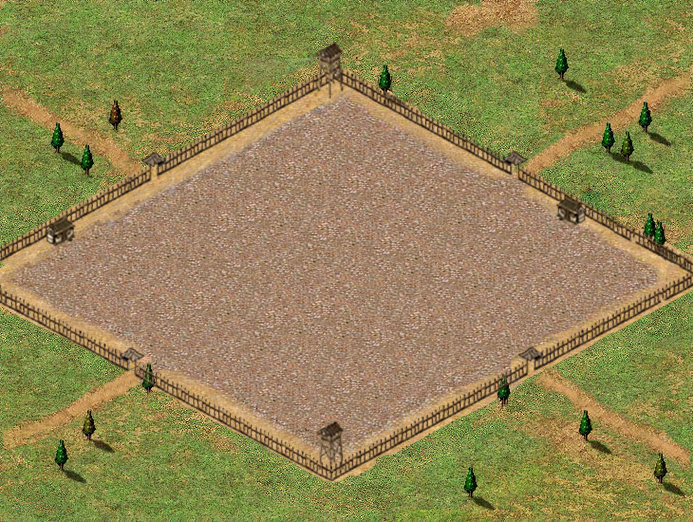
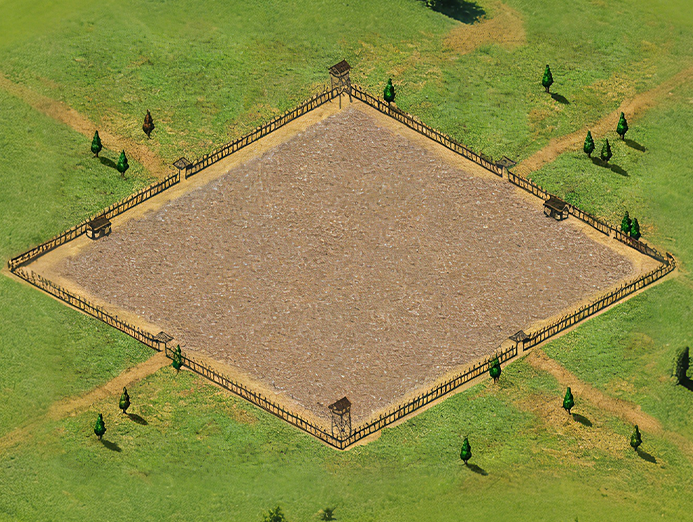
完美解决放置问题

diff --git a/client/js/render_engine.js b/client/js/render_engine.js
@@ -1,4 +1,4 @@
-import { TILE_SIZE, CAMERA_CONFIG, LIGHT_CONFIG, GRID_CONFIG } from './config.js';
+import { TILE_SIZE, CAMERA_CONFIG, LIGHT_CONFIG, GRID_CONFIG, CITY_BOUNDARY } from './config.js';
 
 export const RenderEngine = {
     scene: null,
@@ -60,7 +60,7 @@ export const RenderEngine = {
 
         // Grid Helper
         if (GRID_CONFIG.visible) {
-            this.gridHelper = new THREE.GridHelper(GRID_CONFIG.size, GRID_CONFIG.divisions);
+            this.gridHelper = this.createCustomGrid();
             this.scene.add(this.gridHelper);
         }
 
@@ -99,31 +99,12 @@ export const RenderEngine = {
     animate: function() {
         requestAnimationFrame(() => this.animate());
         
-        // Infinite Grid Logic
+        // Infinite Grid Logic - Disabled for fixed boundary grid
+        /*
         if (this.gridHelper && this.camera && this.renderer) {
-            // Re-use getWorldPosition logic but for center of screen (0,0 NDC)
-            // Or just create a raycaster here
-            
-            const raycaster = new THREE.Raycaster();
-            // Normalized Device Coords for center is (0,0)
-            raycaster.setFromCamera(new THREE.Vector2(0, 0), this.camera);
-            
-            const plane = new THREE.Plane(new THREE.Vector3(0, 1, 0), 0);
-            const target = new THREE.Vector3();
-            
-            raycaster.ray.intersectPlane(plane, target);
-            
-            if (target) {
-                const cellSize = GRID_CONFIG.size / GRID_CONFIG.divisions;
-                
-                // Snap to nearest cell multiple
-                const snapX = Math.floor(target.x / cellSize) * cellSize;
-                const snapZ = Math.floor(target.z / cellSize) * cellSize;
-                
-                this.gridHelper.position.x = snapX;
-                this.gridHelper.position.z = snapZ;
-            }
+             // ... Logic removed to keep grid fixed to world coordinates for boundary visualization ...
         }
+        */
 
         this.renderer.render(this.scene, this.camera);
     },
@@ -312,10 +293,79 @@ export const RenderEngine = {
         this.camera.translateY(moveY);
     },
 
+    // 创建自定义网格 (红色表示越界)
+    createCustomGrid: function() {
+        const group = new THREE.Group();
+        
+        const size = GRID_CONFIG.size;
+        const step = TILE_SIZE;
+        const halfSize = size / 2;
+        
+        const colorInside = 0x888888; // Grey
+        const colorOutside = 0xff0000; // Red
+        
+        const matInside = new THREE.LineBasicMaterial({ color: colorInside });
+        const matOutside = new THREE.LineBasicMaterial({ color: colorOutside });
+        
+        // Helper to add line
+        const addLine = (x1, y1, z1, x2, y2, z2, isOutside) => {
+            const points = [];
+            points.push(new THREE.Vector3(x1, y1, z1));
+            points.push(new THREE.Vector3(x2, y2, z2));
+            const geometry = new THREE.BufferGeometry().setFromPoints(points);
+            const line = new THREE.Line(geometry, isOutside ? matOutside : matInside);
+            group.add(line);
+        };
+
+        const { minX, maxX, minY, maxY } = CITY_BOUNDARY;
+
+        // Vertical lines (along Z)
+        for (let x = -halfSize; x <= halfSize; x += step) {
+             // If x is outside boundary X range, whole line is red
+             if (x < minX || x > maxX) {
+                 addLine(x, 0, -halfSize, x, 0, halfSize, true);
+             } else {
+                 // Split into 3 segments
+                 // 1. -halfSize to minY (Red)
+                 if (-halfSize < minY) {
+                     addLine(x, 0, -halfSize, x, 0, minY, true);
+                 }
+                 // 2. minY to maxY (Grey/Inside)
+                 addLine(x, 0, minY, x, 0, maxY, false);
+                 // 3. maxY to halfSize (Red)
+                 if (maxY < halfSize) {
+                     addLine(x, 0, maxY, x, 0, halfSize, true);
+                 }
+             }
+        }
+
+        // Horizontal lines (along X)
+        for (let z = -halfSize; z <= halfSize; z += step) {
+            // If z is outside boundary Y range, whole line is red
+            if (z < minY || z > maxY) {
+                addLine(-halfSize, 0, z, halfSize, 0, z, true);
+            } else {
+                // Split into 3 segments
+                // 1. -halfSize to minX (Red)
+                if (-halfSize < minX) {
+                     addLine(-halfSize, 0, z, minX, 0, z, true);
+                }
+                // 2. minX to maxX (Grey)
+                addLine(minX, 0, z, maxX, 0, z, false);
+                // 3. maxX to halfSize (Red)
+                if (maxX < halfSize) {
+                    addLine(maxX, 0, z, halfSize, 0, z, true);
+                }
+            }
+        }
+        
+        return group;
+    },
+
     // 虚线网格设置为是否可见 拖拽和建筑的时候可见。
     setGridVisibility: function(visible) {
         if (!this.gridHelper) {
-             this.gridHelper = new THREE.GridHelper(GRID_CONFIG.size, GRID_CONFIG.divisions);
+             this.gridHelper = this.createCustomGrid();
              this.scene.add(this.gridHelper);
         }
         this.gridHelper.visible = visible;

diff --git a/client/js/input.js b/client/js/input.js
@@ -3,7 +3,7 @@ import { Game } from './state.js';
 import { sendRequest } from './api.js';
 import { log } from './utils.js';
 import { renderCity, renderMap, switchView, createGhost, updateGhost, removeGhost } from './render.js';
-import { ZOOM_MIN, ZOOM_MAX, ZOOM_STEP } from './config.js';
+import { ZOOM_MIN, ZOOM_MAX, ZOOM_STEP, CITY_BOUNDARY } from './config.js';
 import { RenderEngine } from './render_engine.js';
 
 // 设置右键菜单
@@ -150,6 +150,20 @@ export function initInteractionListeners() {
         // 2. 处理物体拖拽
         if (Game.dragState.isDragging && Game.dragState.id) {
             e.preventDefault();
+            
+            // UI 保护区检测 (防止拖拽到 UI 之下)
+            const h = window.innerHeight;
+            const w = window.innerWidth;
+            
+            // 顶部栏 (约 60px)
+            if (e.clientY < 60) return;
+            
+            // 左下角日志面板 (320x220)
+            if (e.clientY > h - 220 && e.clientX < 320) return;
+            
+            // 右下角城池图标 (80x80)
+            if (e.clientY > h - 80 && e.clientX > w - 80) return;
+
             const id = Game.dragState.id;
             const newX = worldPos.x - Game.dragState.offsetX;
             const newY = worldPos.y - Game.dragState.offsetY;
@@ -214,6 +228,12 @@ export function initInteractionListeners() {
         if (Game.placementState.active) {
             const { x, y, region, def } = Game.placementState;
             
+            // Check Boundary
+            if (x < CITY_BOUNDARY.minX || x > CITY_BOUNDARY.maxX || y < CITY_BOUNDARY.minY || y > CITY_BOUNDARY.maxY) {
+                log("Cannot place building outside city boundary!");
+                return;
+            }
+
             log(`Building ${def.name} at (${x}, ${y})`);
             
             sendRequest('build', {
@@ -312,6 +332,21 @@ export function initInteractionListeners() {
                 const finalX = Math.floor(obj.position.x);
                 const finalY = Math.floor(obj.position.z);
                 
+                // Check Boundary
+                if (Game.currentView === 'city') {
+                     if (finalX < CITY_BOUNDARY.minX || finalX > CITY_BOUNDARY.maxX || finalY < CITY_BOUNDARY.minY || finalY > CITY_BOUNDARY.maxY) {
+                          log("Cannot move outside city boundary!");
+                          if (Game.currentView === 'city') renderCity();
+                          else renderMap();
+                          
+                          Game.dragState.isDragging = false;
+                          Game.dragState.id = null;
+                          Game.dragState.type = null;
+                          RenderEngine.setGridVisibility(false);
+                          return;
+                     }
+                }
+                
                 log(`Moved ${type} ${id} to (${finalX}, ${finalY})`);
 
                 if (type === 'general') {
@@ -354,6 +389,19 @@ export function initInteractionListeners() {
 
     container.addEventListener('mouseup', endInteraction);
     container.addEventListener('mouseleave', endInteraction);
+
+    // 鼠标双击空地，打印坐标
+    container.addEventListener('dblclick', (e) => {
+        const intersects = RenderEngine.getIntersections(e.clientX, e.clientY);
+        const target = intersects.find(hit => hit.object.userData && (hit.object.userData.type === 'building' || hit.object.userData.type === 'general'));
+        
+        if (!target) {
+            const worldPos = RenderEngine.getWorldPosition(e.clientX, e.clientY);
+            const x = Math.floor(worldPos.x);
+            const y = Math.floor(worldPos.y);
+            log(`Double click at: ${x}, ${y}`);
+        }
+    });
 }
 
 // 注入样式

diff --git a/client/js/config.js b/client/js/config.js
@@ -10,9 +10,9 @@ export const CAMERA_CONFIG = {
     // Position of the camera. 
     // For Isometric view, usually equal X, Y, Z offsets.
     // Increase distance to cover more area if needed.
-    posX: 100, 
-    posY: 100,
-    posZ: 100,
+    posX: 1000, 
+    posY: 1000,
+    posZ: 1000,
     
     // LookAt Target (usually origin or map center)
     lookAtX: 0,
@@ -21,8 +21,9 @@ export const CAMERA_CONFIG = {
     
     // Near and Far clipping planes
     // Use large negative near plane for Isometric view to avoid clipping objects "behind" camera plane but visible in frustum
-    near: -10000,
-    far: 20000 
+    // Adjusted range to avoid potential precision issues
+    near: -5000,
+    far: 10000 
 };
 
 // Light Settings
@@ -44,4 +45,13 @@ export const GRID_CONFIG = {
     size: GRID_SIZE, 
     divisions: GRID_SIZE / TILE_SIZE, // Ensures cell size equals TILE_SIZE
     visible: false
+};
+
+// City Boundary (Placement Area)
+// Multiples of TILE_SIZE (30)
+export const CITY_BOUNDARY = {
+    minX: -330,
+    maxX: 420,
+    minY: -300,
+    maxY: 450
 };

diff --git a/client/js/render.js b/client/js/render.js
@@ -54,7 +54,7 @@ export function renderCity() {
     RenderEngine.clearWorld();
     
     const bgMesh = RenderEngine.createEntity('city_bg', 'assets/chengqiang.png', TILE_SIZE*40, TILE_SIZE*50, 0, 0);
-    bgMesh.position.set(0, -5, 0); // Put it below everything
+    bgMesh.position.set(0, -50, 0); // Put it well below everything to avoid interference
     bgMesh.quaternion.set(0, 0, 0, 1); 
     bgMesh.rotation.set(-Math.PI / 2, 0, Math.PI / 4);
     
